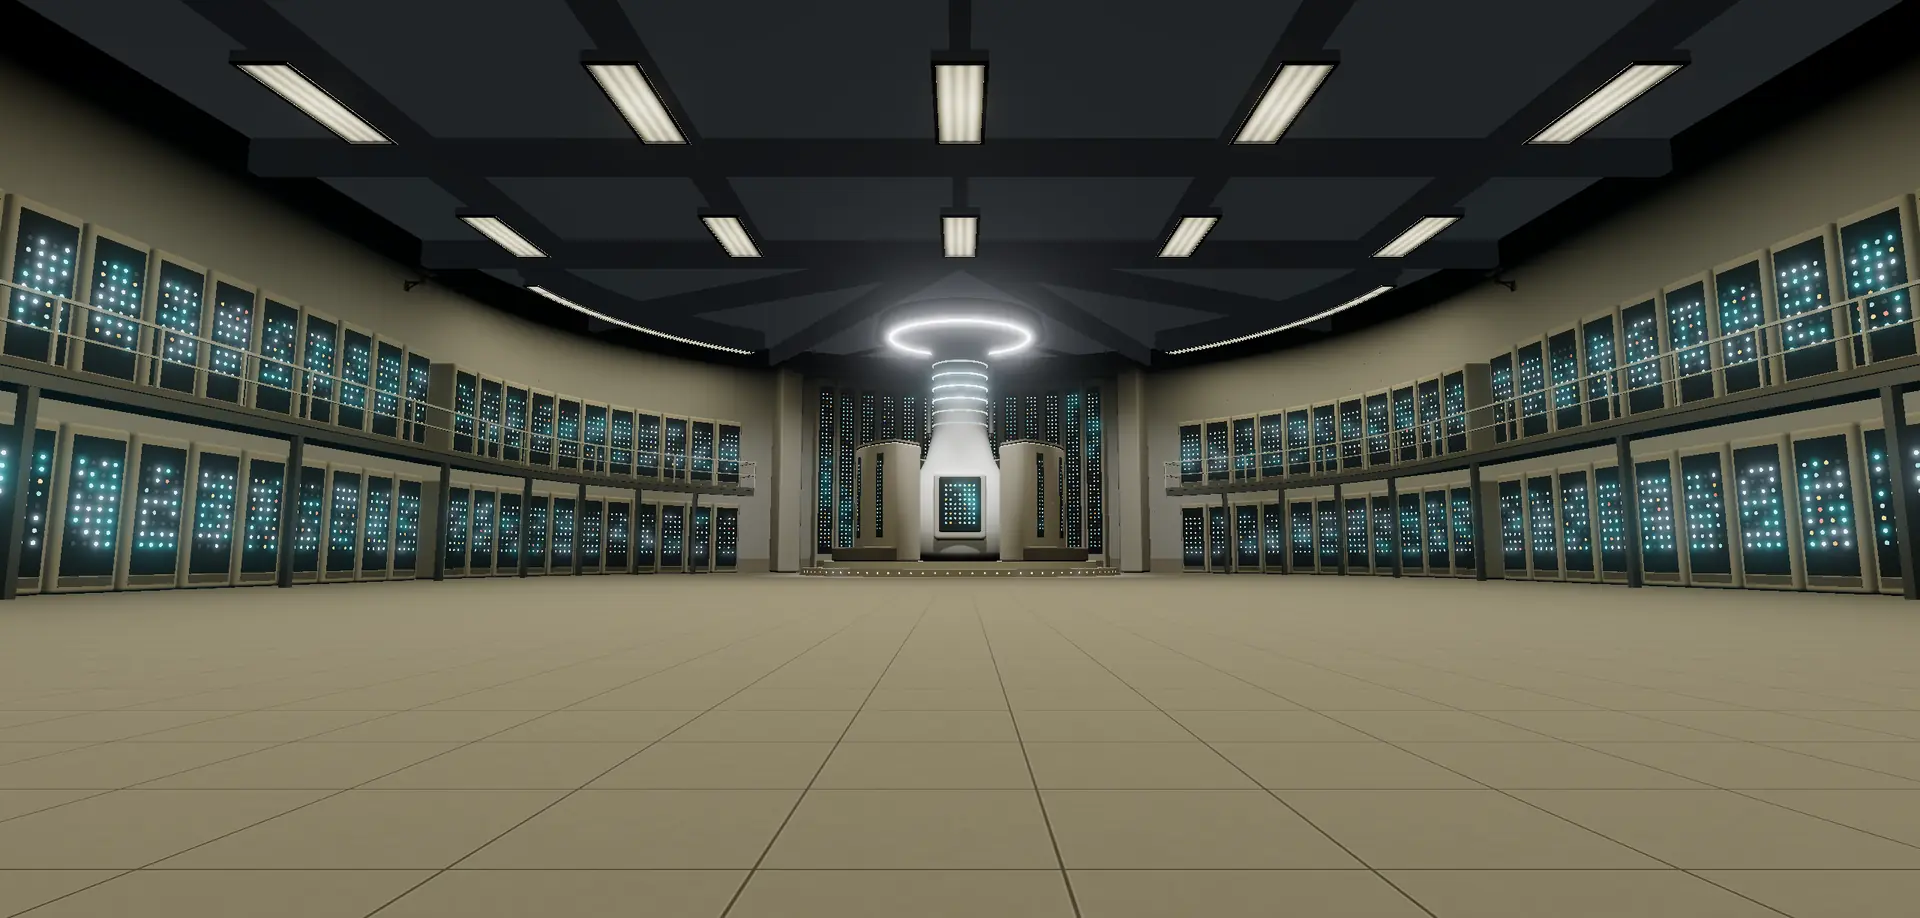
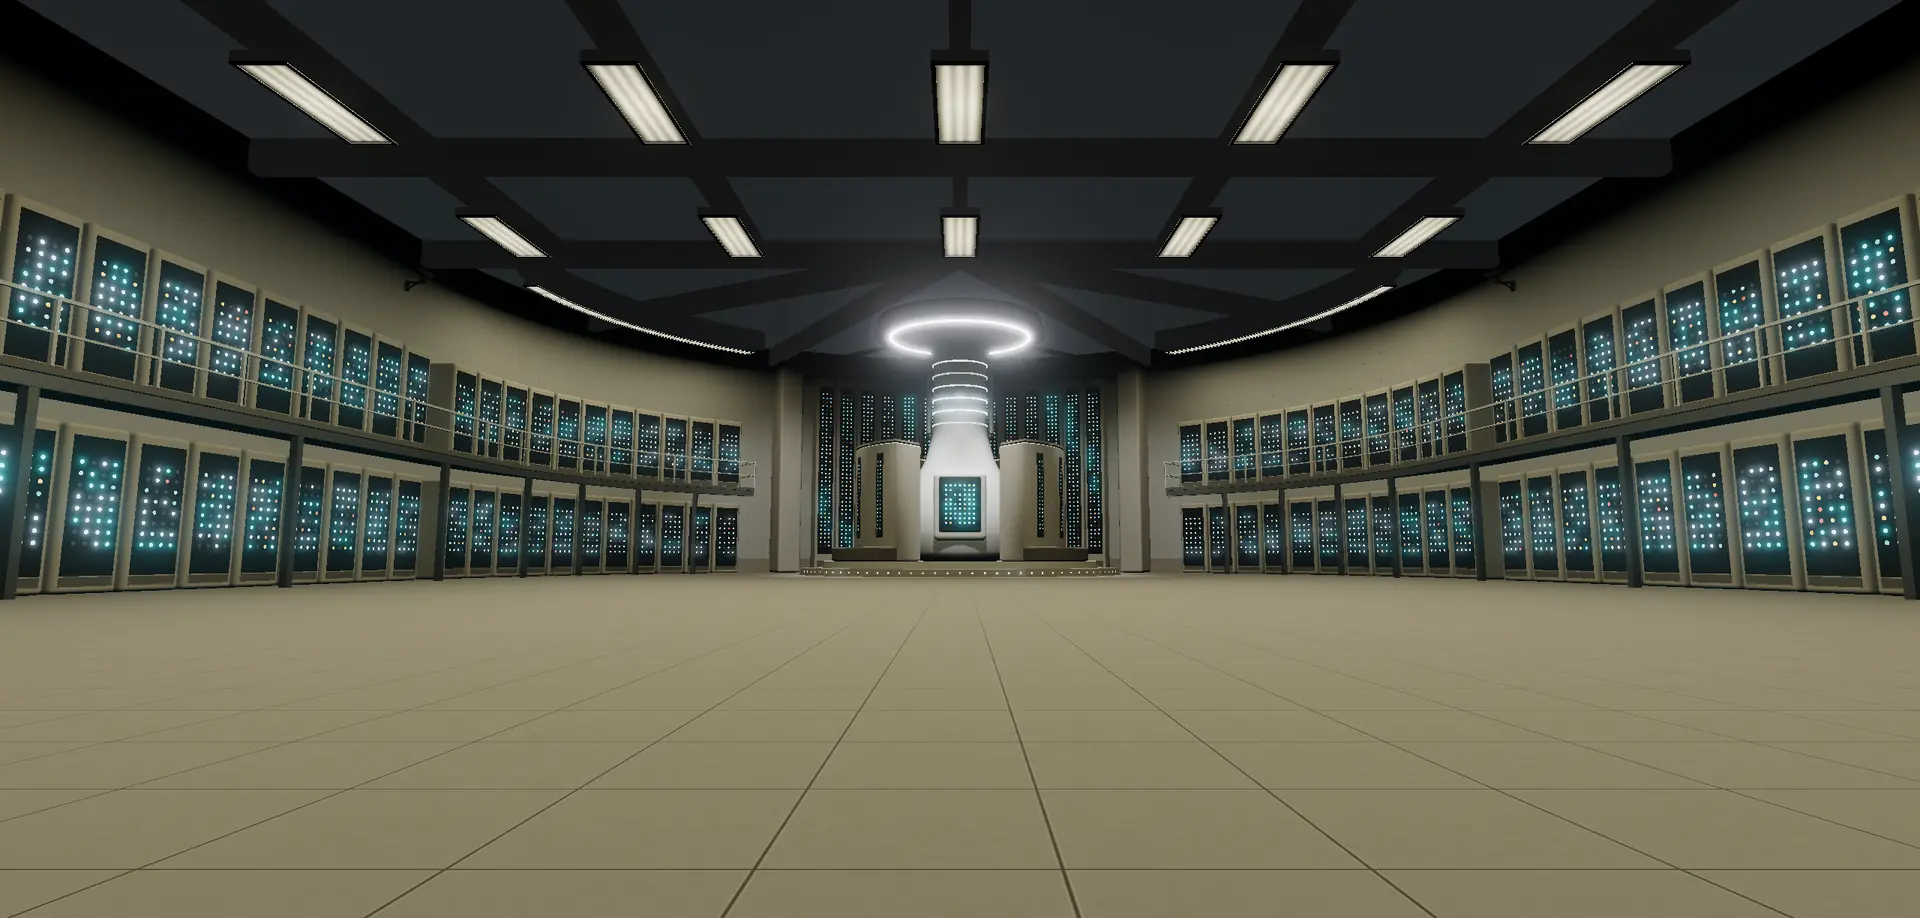
Server room beams #232323; retaken welcome stills

diff --git a/src/scene/serverRoom.js b/src/scene/serverRoom.js
@@ -302,6 +302,6 @@ export function buildServerLights(m) {
   // surface that comes up with the first fixture row (user: dark gray, not total black).
   fixtures.push({ mat: m.serverCeiling, max: new THREE.Color(0x313437), row: 0 });
   // Beams and fixture housings: a couple of shades darker than the ceiling (they were pure black too).
-  fixtures.push({ mat: m.serverBeam, max: new THREE.Color(0x222427), row: 0 });
+  fixtures.push({ mat: m.serverBeam, max: new THREE.Color(0x232323), row: 0 }); // #232323 (user)
   return { group, room, fixtures };
 }

diff --git a/CLAUDE.md b/CLAUDE.md
@@ -439,7 +439,7 @@ nearest-first (tube sounds at 100/60/40 % per row), back wash +0.3 s, fans fade 
 - **Server ceiling beams** (user: lights crossing under beams made no sense): a lengthwise beam over each fixture column
   (`FIX_X`), every fixture housing hung under its beam running the same way; cross beams only between fixture rows plus
   the hall/bay edge beam (`CROSS_Z` -8, -14.8, -21.6, zMin). Beams, housings and the bay's radial/ring beams use
-  `m.serverBeam` (MeshBasic 0x222427 at full power, a couple of shades darker than the anthracite ceiling; black when
+  `m.serverBeam` (MeshBasic **#232323** at full power (user-picked; was 0x222427), darker than the anthracite ceiling; black when
   unpowered, comes up with row 0). The old `TRUSS_Z` (one over each row) is gone.
 - **Supercomputer face panel:** the beige surround now runs from z 1.0 (deep inside the bulbous base, so it grows out of
   it instead of floating off it at the top corners) to 2.38 (just past the bulge's widest point, r 2.2, which used to
